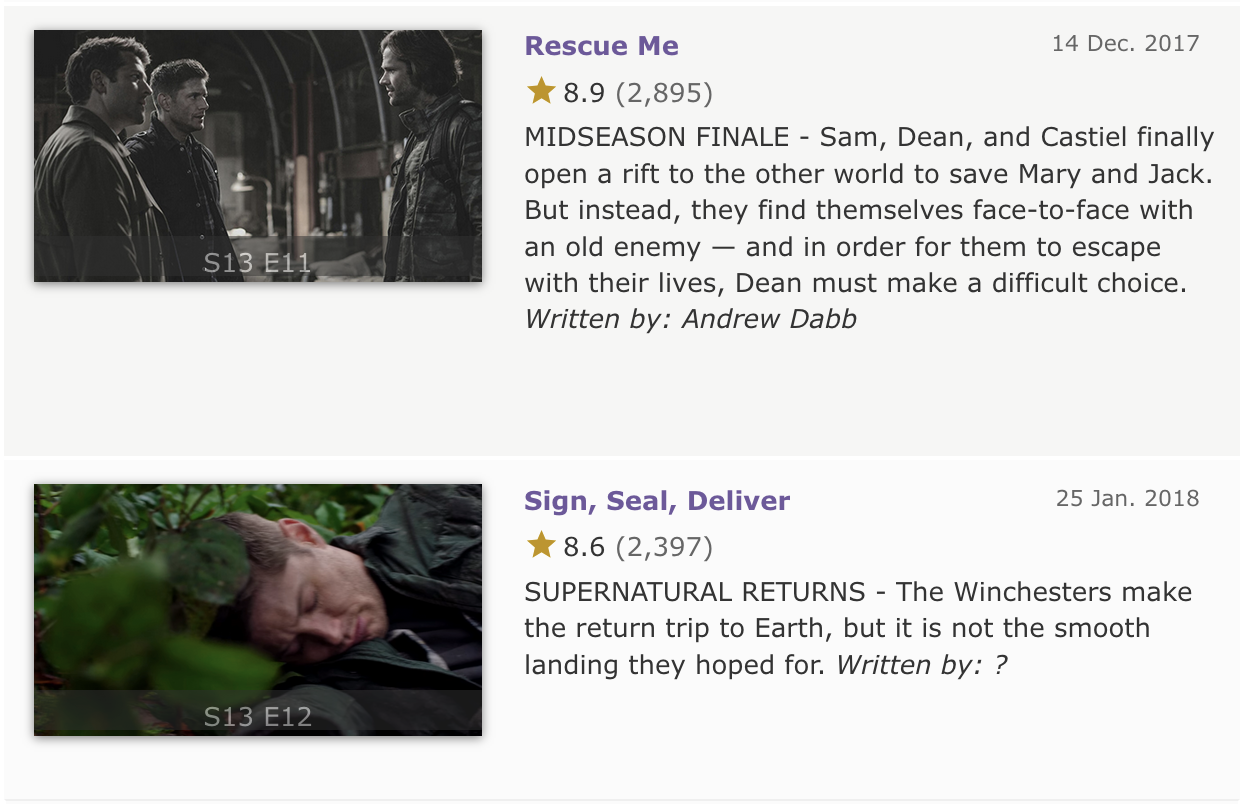
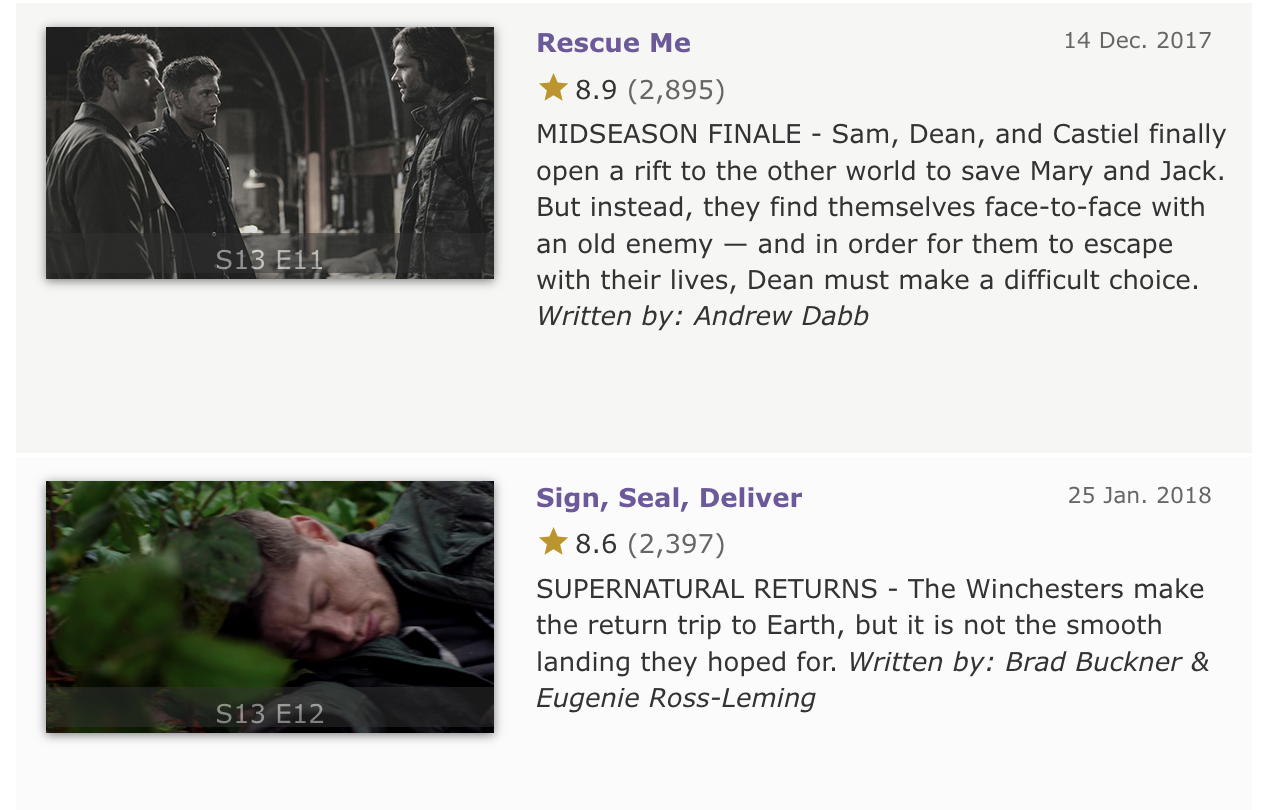
lemmings: bucked

diff --git a/index.html b/index.html
@@ -557,7 +557,7 @@ title="Sign, Seal, Deliver" itemprop="name">Sign, Seal, Deliver</a></strong>
             <span class="ipl-rating-star__total-votes">(2,397)</span>
     </div>
 <div class="item_description" itemprop="description">
-        SUPERNATURAL RETURNS - The Winchesters make the return trip to Earth, but it is not the smooth landing they hoped for. <i>Written by: ?</i>
+        SUPERNATURAL RETURNS - The Winchesters make the return trip to Earth, but it is not the smooth landing they hoped for. <i>Written by: Brad Buckner & Eugenie Ross-Leming</i>
         </div>
     <div class="wtw-option-standalone" data-tconst="tt6746126" data-watchtype="minibar" data-baseref="ttep"></div>
   </div>
